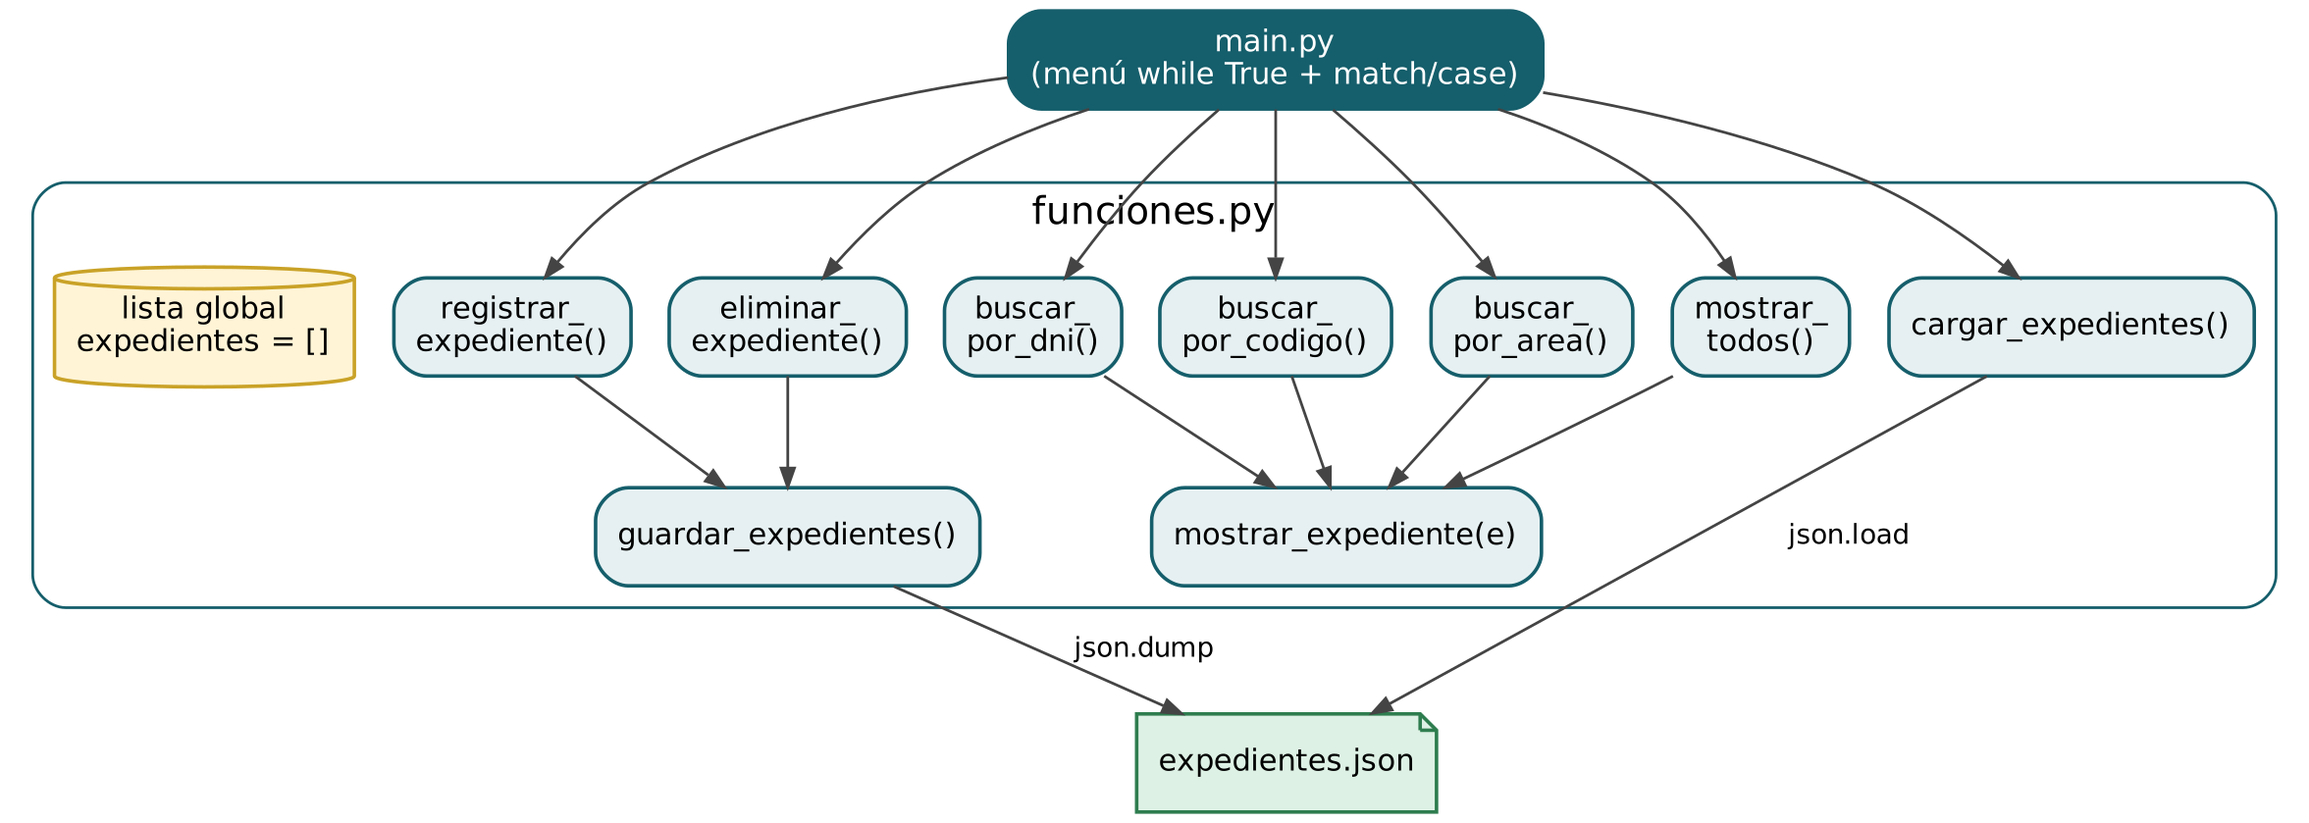
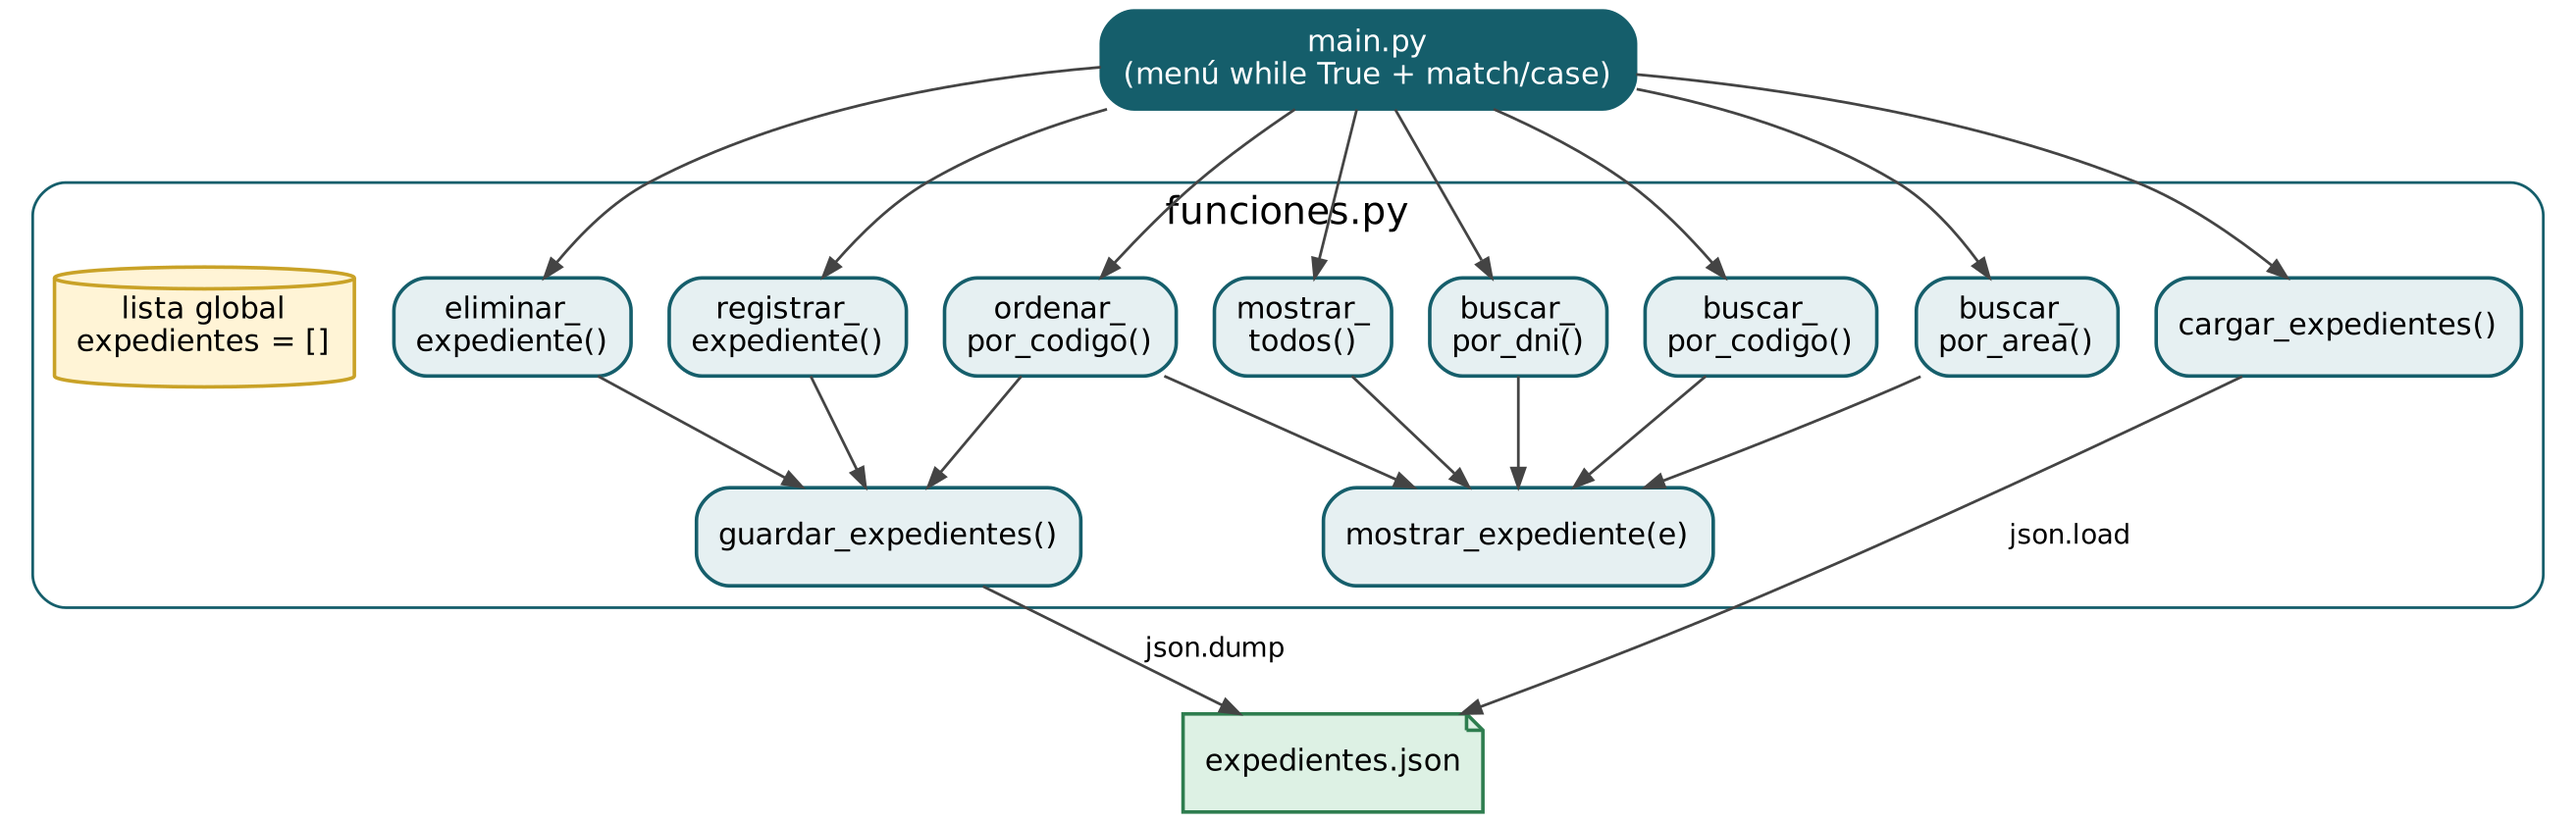
Actualizar README y diagramas con la opción de ordenar y la corrección de mayúsculas
Claude-Session: https://claude.ai/code/session_01TBKwzJc7gY8S2dkcLP8Q3e

diff --git a/README.md b/README.md
@@ -4,7 +4,7 @@
 ![Estado](https://img.shields.io/badge/estado-prototipo%20acad%C3%A9mico-155E6B)
 ![Licencia](https://img.shields.io/badge/licencia-MIT-green)
 
-Prototipo de consola en Python que digitaliza el registro de expedientes de la mesa de partes del área de **Admisión** de un centro de salud del MINSA. Permite **registrar, validar, buscar, eliminar y guardar** expedientes en un archivo JSON, sin bases de datos ni librerías externas (solo módulos estándar de Python).
+Prototipo de consola en Python que digitaliza el registro de expedientes de la mesa de partes del área de **Admisión** de un centro de salud del MINSA. Permite **registrar, validar, buscar, ordenar, eliminar y guardar** expedientes en un archivo JSON, sin bases de datos ni librerías externas (solo módulos estándar de Python).
 
 Proyecto del desafío **«Del archivador al algoritmo: un prototipo para la mesa de partes digital»**, curso *Fundamentos de Programación (CIIN1205P)*, Universidad Privada del Norte.
 
@@ -58,7 +58,8 @@ El diagrama de Ishikawa resume las causas del problema en seis categorías (6M):
 | 4 | `buscar_por_codigo()` | Muestra el expediente con ese código |
 | 5 | `buscar_por_area()` | Muestra los expedientes de un área (sin importar mayúsculas) |
 | 6 | `mostrar_todos()` | Lista todos los expedientes |
-| 7 | — | Sale del sistema |
+| 7 | `ordenar_por_codigo()` | Ordena por código con el método burbuja y guarda el resultado |
+| 8 | — | Sale del sistema |
 
 Cada cambio se guarda automáticamente en `expedientes.json`, y al iniciar el programa se cargan los expedientes guardados.
 
@@ -91,7 +92,7 @@ En Windows usa `python main.py`. Se necesita Python 3.10 o superior porque el me
 ```
 mesa-partes-digital/
 ├── main.py            # Menú del sistema (while True + match/case)
-├── funciones.py       # Lógica: registrar, eliminar, buscar, cargar y guardar
+├── funciones.py       # Lógica: registrar, eliminar, buscar, ordenar, cargar y guardar
 ├── expedientes.json   # Datos de ejemplo (ficticios); se crea al registrar el primero
 ├── docs/img/          # Diagramas y capturas usados en este README
 ├── .gitignore
@@ -143,61 +144,61 @@ flowchart TD
     D -- 5 --> I[buscar_por_area]
     D -- 6 --> J[mostrar_todos]
     D -- case _ --> L[/Opción no válida/]
-    D -- 7 --> Z([Fin])
-    E & F & G & H & I & J & L --> C
+    D -- 7 --> K[ordenar_por_codigo]
+    D -- 8 --> Z([Fin])
+    E & F & G & H & I & J & K & L --> C
 ```
 
-### Registro y búsqueda
+### Registro y ordenamiento
 
-| Registro | Búsqueda por DNI (lineal) |
+| Registro | Ordenamiento burbuja |
 |:-:|:-:|
-| ![Flujo registrar](docs/img/flujo-registrar.png) | ![Flujo buscar](docs/img/flujo-buscar.png) |
+| ![Flujo registrar](docs/img/flujo-registrar.png) | ![Flujo ordenar](docs/img/flujo-ordenar.png) |
 
 ### Conceptos aplicados
 
 | Concepto | Dónde |
 |---|---|
-| Estructuras de control | `while True` y `match/case` del menú, `if` en validaciones y `for` en búsquedas |
-| Funciones | 9 funciones en `funciones.py`; `mostrar_expediente(expediente)` recibe un parámetro |
-| Listas (arreglos) | Lista `expedientes` de diccionarios: `append` y `remove` |
-| Cadenas | `strip()`, `lower()`, `isdigit()`, `len()` y fecha con `strftime("%d/%m/%Y")` |
+| Estructuras de control | `while True` y `match/case` del menú, `if` en validaciones, `for` en búsquedas y dos `for` anidados en la burbuja |
+| Funciones | 10 funciones en `funciones.py`; `mostrar_expediente(expediente)` recibe un parámetro |
+| Listas (arreglos) | Lista `expedientes` de diccionarios: `append`, `remove` e intercambio por índice |
+| Cadenas | `strip()`, `upper()`, `lower()`, `isdigit()`, `len()` y fecha con `strftime("%d/%m/%Y")` |
 | Archivos | `open()` en modo `"r"` y `"w"` con `encoding="utf-8"`, `json.load` / `json.dump`, `os.path.exists` |
 | Manejo de errores | `try/except json.JSONDecodeError` al cargar |
 
 ### Eficiencia
 
-| Expedientes (n) | Búsqueda lineal, peor caso | Guardar + cargar JSON | Tamaño del archivo |
+| Expedientes (n) | Búsqueda lineal (comparaciones) | Burbuja n(n−1)/2 (comparaciones) | Guardar JSON |
 |---|---|---|---|
-| 25 (un día) | 25 comparaciones | 0,5 ms | 5,4 KB |
-| 660 (un mes) | 660 comparaciones | 6,4 ms | 143 KB |
-| 7 920 (un año) | 7 920 comparaciones (0,7 ms) | 68 ms | 1,7 MB |
+| 25 (un día) | 25 | 300 | 0,3 ms |
+| 660 (un mes) | 660 | 217 470 (31 ms) | 3 ms |
+| 7 920 (un año) | 7 920 | 31 359 240 (4,4 s) | 33 ms |
 
-La búsqueda lineal y el archivo JSON son suficientes incluso para un año de datos.
+La búsqueda lineal y el archivo JSON son suficientes incluso para un año de datos. La burbuja conviene para volúmenes diarios o mensuales.
 
 ---
 
 ## Pruebas
 
-Se ejecutaron **17 casos de prueba**: 16 dan el resultado esperado y 1 muestra una limitación conocida.
+Se ejecutaron **17 casos de prueba** y todos dan el resultado esperado.
 
 | Grupo | Casos |
 |---|---|
 | Registro y persistencia | Registro válido; el expediente sigue al reiniciar |
 | Validaciones | Código repetido, DNI de 7 dígitos, DNI con letra, campo vacío, opción inválida |
 | Búsquedas | Por DNI (con y sin resultados), por código inexistente, por área en minúsculas y área sin registros |
-| Eliminación y archivo | Eliminar existente e inexistente; contenido de `expedientes.json` |
-| Robustez | Archivo JSON dañado (avisa y sigue); código en minúsculas (`exp-2026-0007`) **aceptado como nuevo** (limitación) |
+| Ordenamiento y eliminación | Orden en pantalla y en `expedientes.json`; eliminar existente e inexistente |
+| Robustez | Archivo JSON dañado (avisa y sigue); código en minúsculas (`exp-2026-0007`) detectado como repetido |
 
 ---
 
 ## Limitaciones y trabajo futuro
 
-- [ ] Ordenar los expedientes por código (por ejemplo, con el método burbuja)
-- [ ] Normalizar el código con `.upper()` para detectar duplicados como `exp-2026-0007`
 - [ ] Copia de respaldo (`expedientes.bak`) antes de guardar, para no perder datos si el JSON se daña
 - [ ] Generar el código `EXP-AAAA-NNNN` automáticamente
 - [ ] Volver a pedir solo el dato incorrecto, en lugar de cancelar el registro
 - [ ] Elegir el área de un catálogo numerado
+- [ ] Reemplazar la burbuja por `sorted()` cuando haya miles de expedientes
 - [ ] Migrar a una base de datos (SQLite) para varios usuarios
 
 ---
